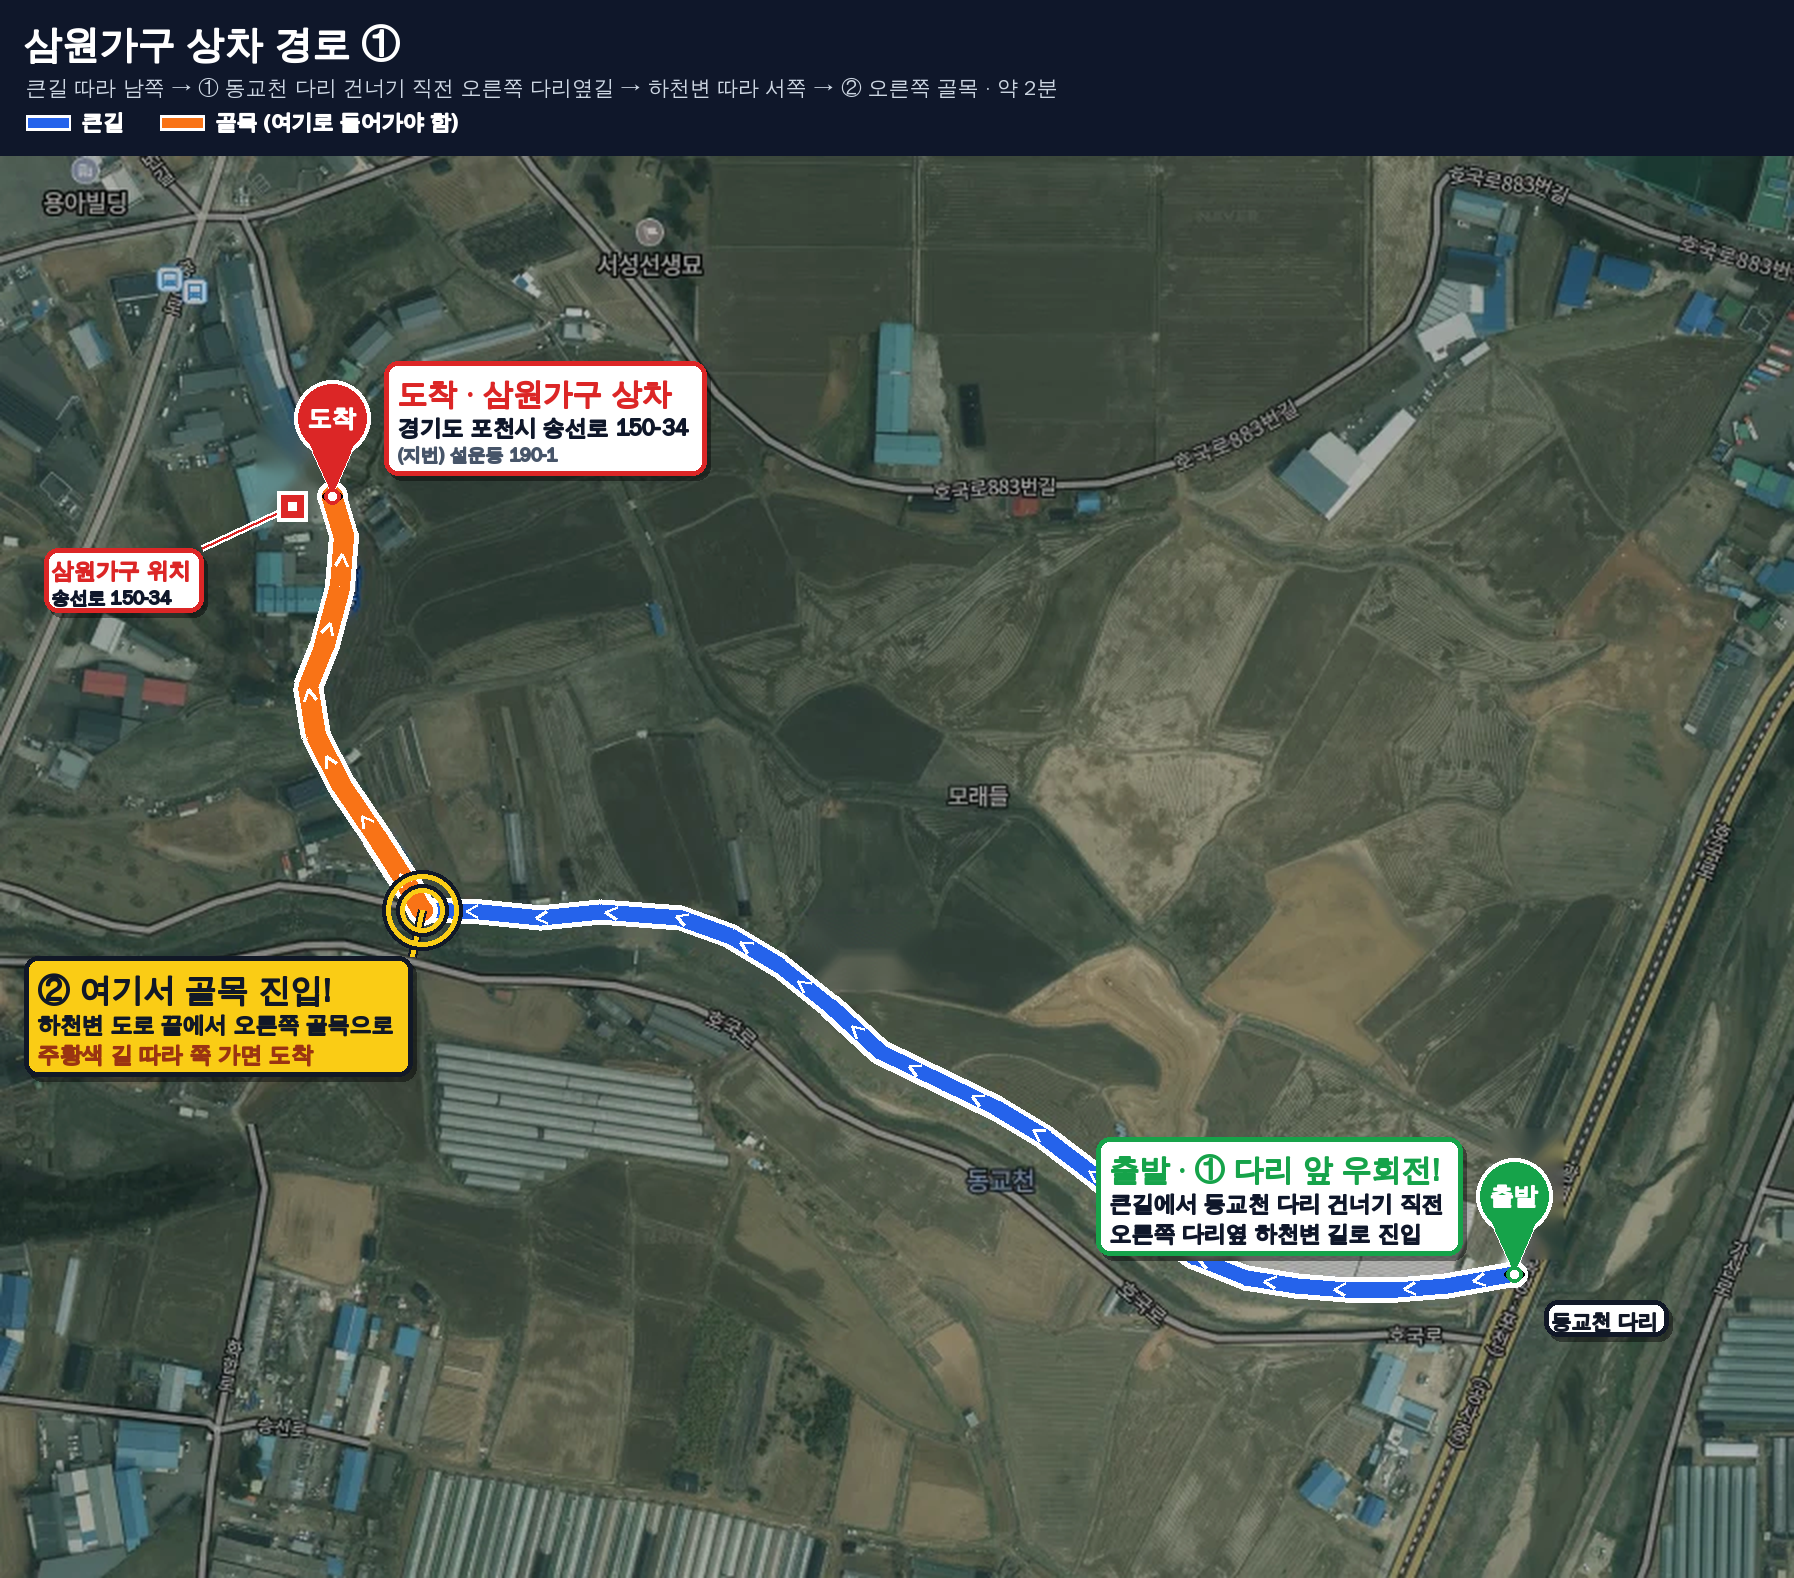
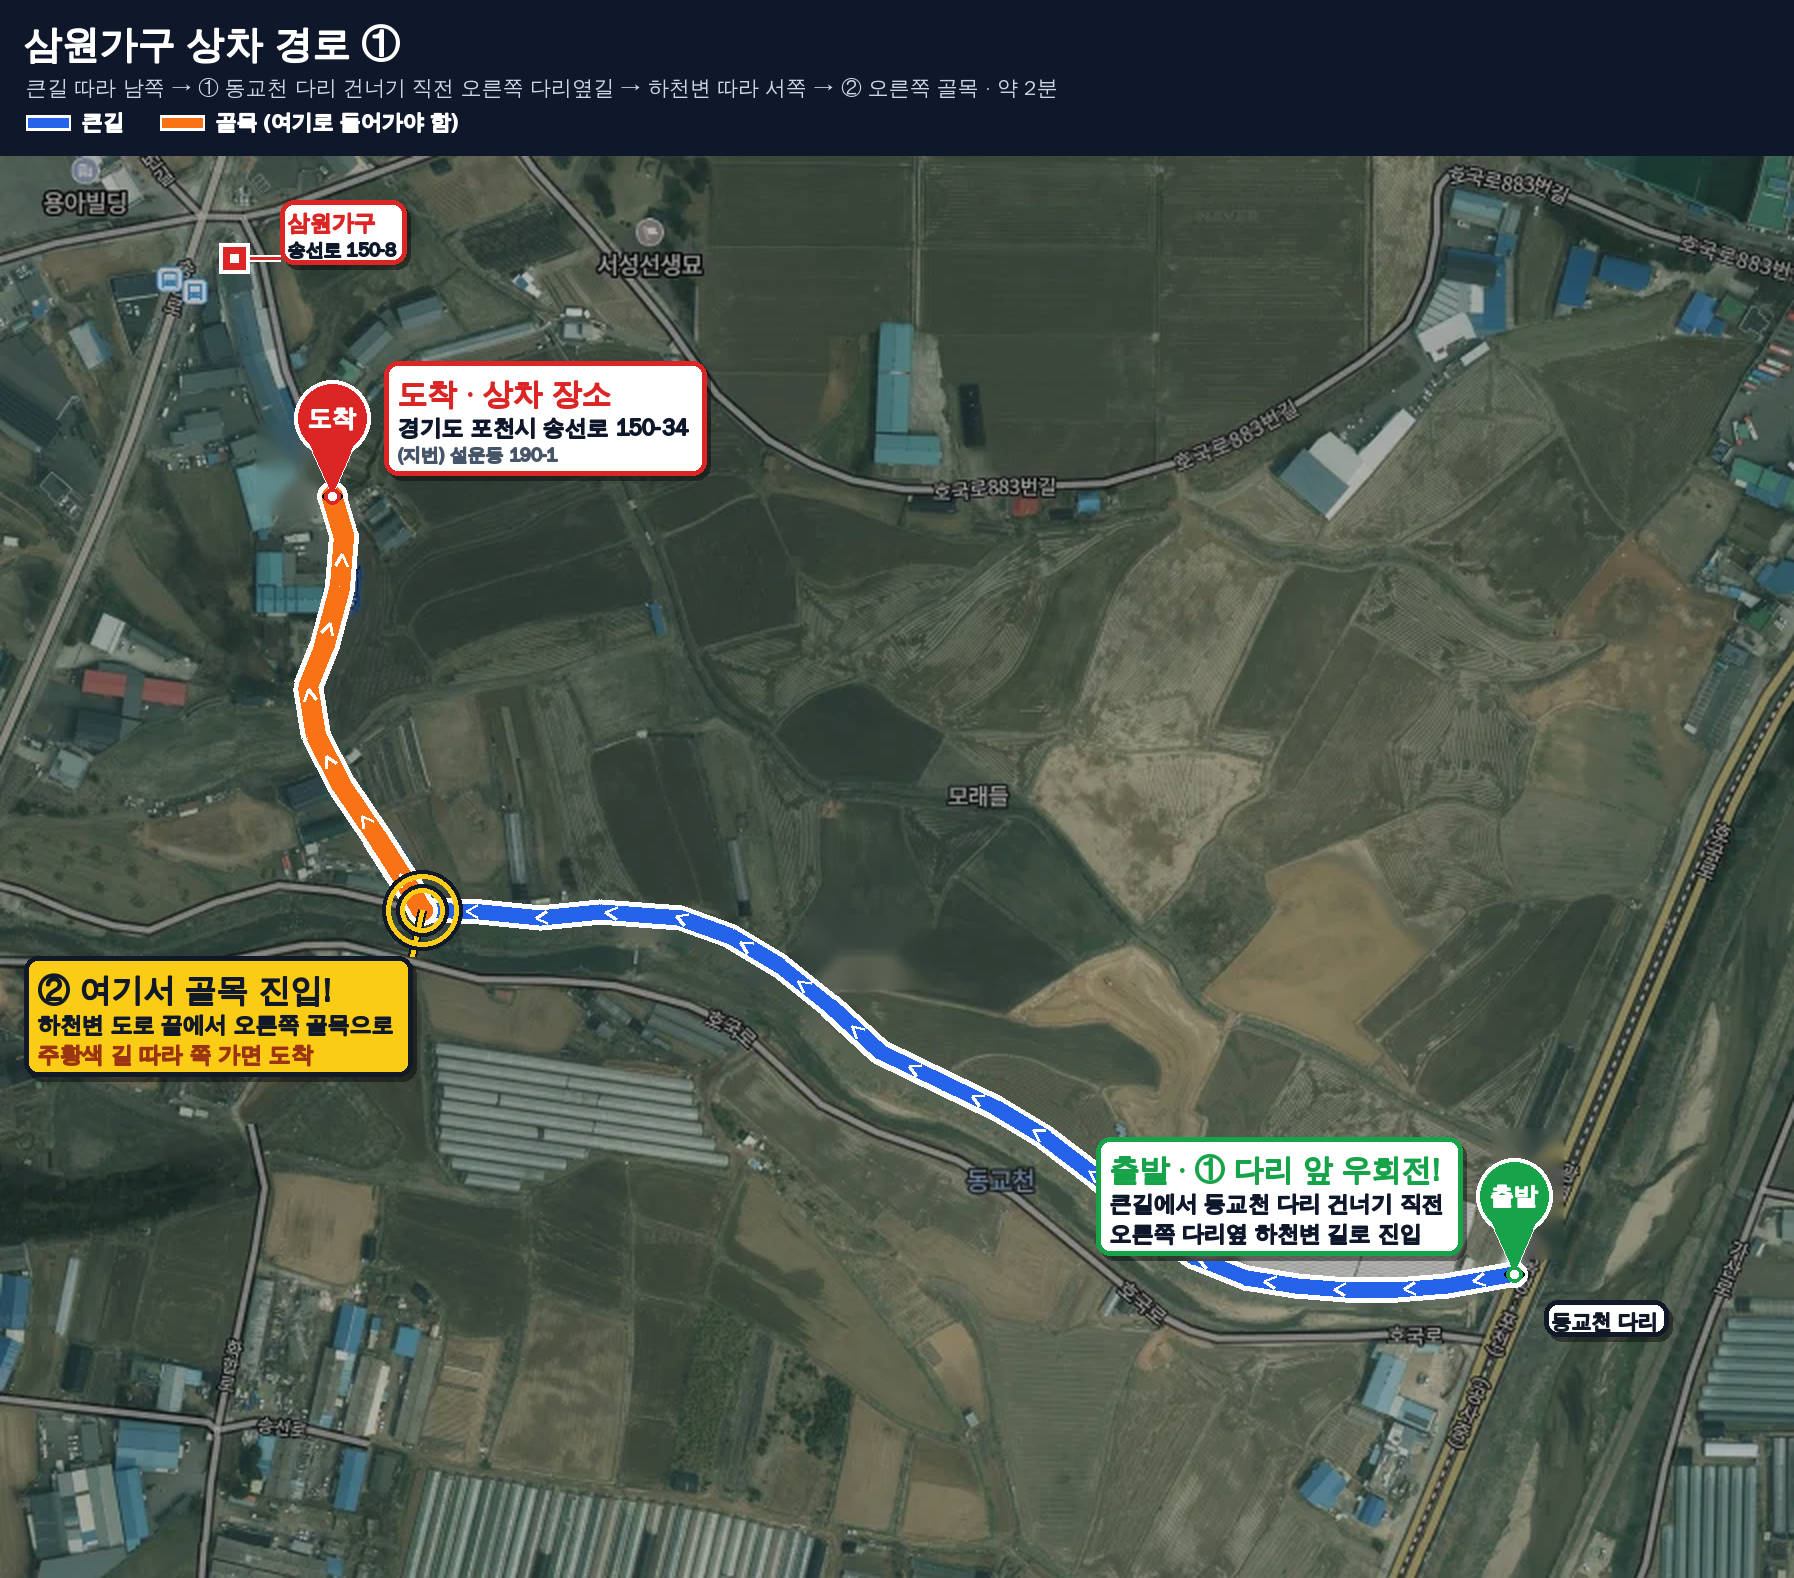
삼원가구 매장 위치를 송선로 150-8로 수정, 도착 표시는 상차 장소로 변경
Claude-Session: https://claude.ai/code/session_01Dz7PcBDYJJtodKWJVErJmj

diff --git a/make_maps.py b/make_maps.py
@@ -13,6 +13,7 @@ from PIL import Image, ImageDraw, ImageFont
 FONT = "/usr/share/fonts/truetype/wqy/wqy-zenhei.ttc"
 ADDRESS = "경기도 포천시 송선로 150-34"
 JIBUN = "(지번) 설운동 190-1"
+SHOP_ADDRESS = "송선로 150-8"
 SCALE = 2
 
 GREEN = (22, 163, 74)
@@ -53,8 +54,8 @@ ROUTES = [
                         ("오른쪽 다리옆 하천변 길로 진입", 22, NAVY)],
         "tags": [((772, 572), "동교천 다리")],
         # 삼원가구 실제 위치(주소 지점)와 라벨 위치
-        "shop": (146, 175),
-        "shop_tag": (22, 196),
+        "shop": (117, 51),
+        "shop_tag": (140, 22),
     },
     {
         "src": "images/route2.webp",
@@ -82,8 +83,8 @@ ROUTES = [
         }],
         # 다리 위치 표시 (원본 좌표, 라벨 좌상단)
         "tags": [((110, 350), "동교천 다리")],
-        "shop": (378, 146),
-        "shop_tag": (262, 150),
+        "shop": (350, 25),
+        "shop_tag": (214, 30),
     },
 ]
 
@@ -242,14 +243,14 @@ def build(cfg):
     draw_callout(d, s, cfg["start_label_side"], GREEN,
                  cfg.get("start_lines", [("출발", 30, GREEN), ("여기서 진입하세요", 22, NAVY)]), W, H)
     draw_callout(d, e, cfg["end_label_side"], RED,
-                 [("도착 · 삼원가구 상차", 30, RED), (ADDRESS, 22, NAVY), (JIBUN, 18, (71, 85, 105))], W, H)
+                 [("도착 · 상차 장소", 30, RED), (ADDRESS, 22, NAVY), (JIBUN, 18, (71, 85, 105))], W, H)
     draw_pin(d, s, GREEN, "출발")
     draw_pin(d, e, RED, "도착")
 
-    # 삼원가구 실제 위치 (주소 지점)
+    # 삼원가구 매장 위치 (images/samwon_location.png 기준으로 맞춘 좌표)
     shop = (cfg["shop"][0] * SCALE, cfg["shop"][1] * SCALE)
     tag = (cfg["shop_tag"][0] * SCALE, cfg["shop_tag"][1] * SCALE)
-    lines = [("삼원가구 위치", 22, RED), ("송선로 150-34", 18, NAVY)]
+    lines = [("삼원가구", 22, RED), (SHOP_ADDRESS, 18, NAVY)]
     bw, bh = box_size(d, lines, pad=8)
     near = (min(max(shop[0], tag[0]), tag[0] + bw), min(max(shop[1], tag[1]), tag[1] + bh))
     d.line([shop, near], fill=WHITE, width=7)
